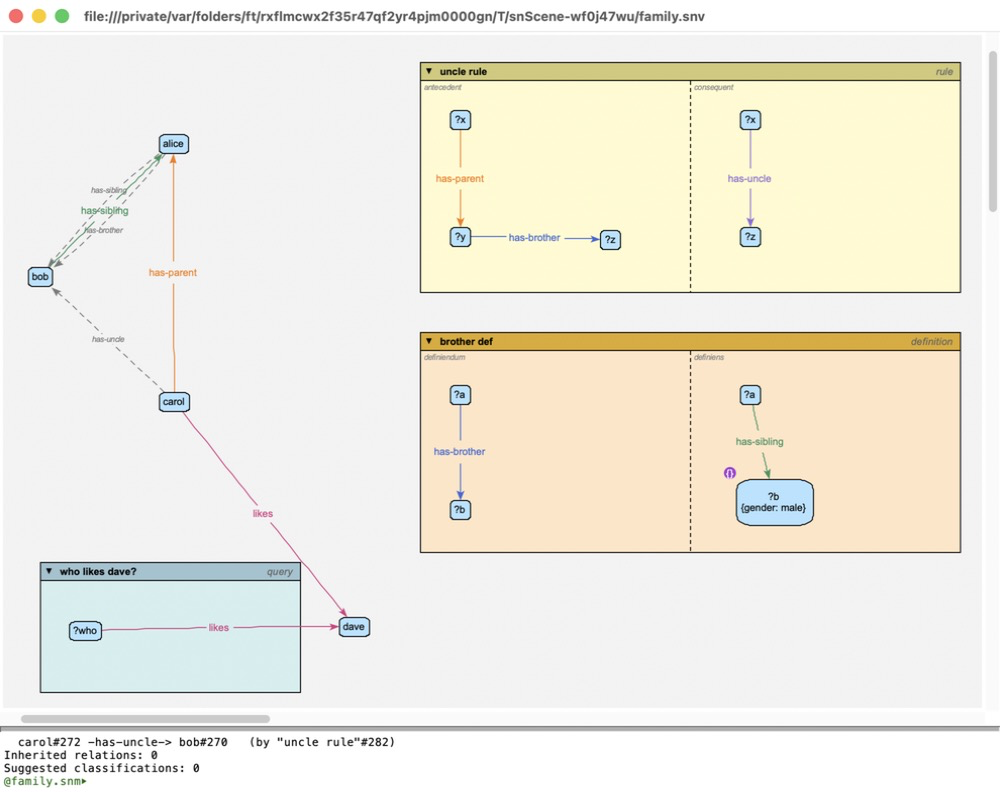
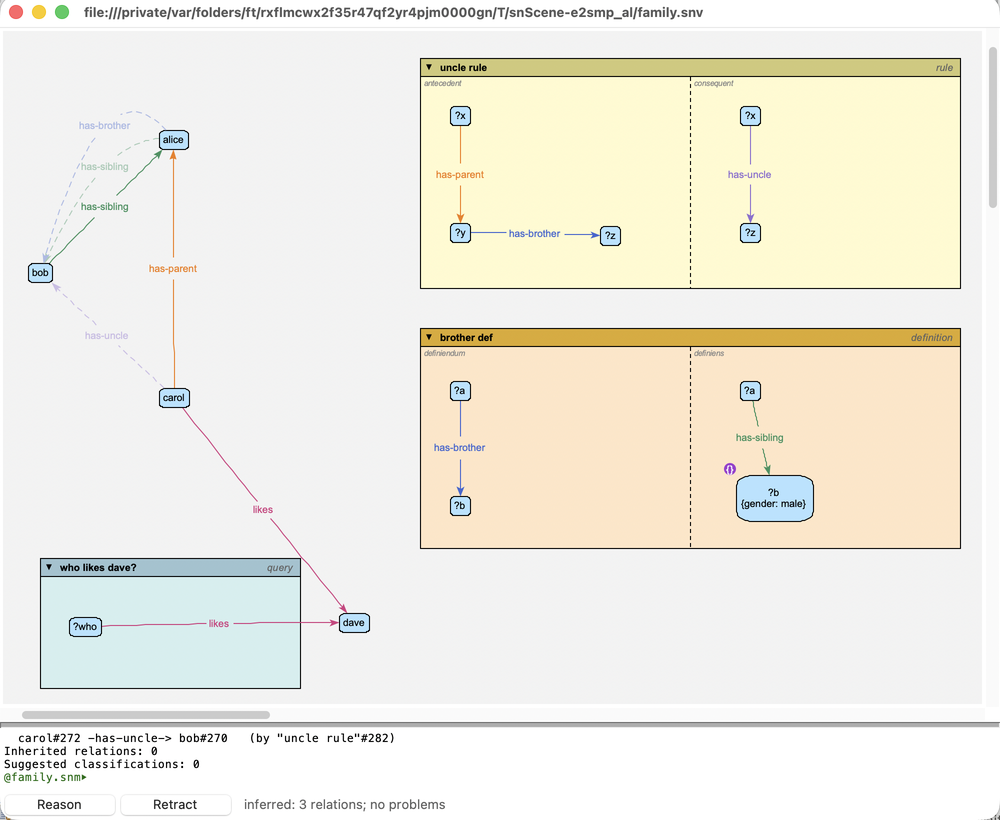
Doc screenshots retaken; showScene.py --capture takes them
- family-reasoned.png, query-answer.png, animation-class-diagram.png
  retaken: inferred relations faded and dashed, the reasoning toolbar, and
  the animation toolbar's "place labels".
- showScene.py --capture <folder>: takes a scene's screenshots itself
  (screencapture, needing screen recording permission) and quits; the
  scene's window grows by the reasoning toolbar's height, so the canvas is
  as big as it was.
- Getting started and the developer's view notes: the reasoning toolbar
  and inferred objects, not dashed grey lines.

diff --git a/tools/docExamples/showScene.py b/tools/docExamples/showScene.py
@@ -22,21 +22,97 @@ screenshots taken of them:
                toolbar: animation-class-diagram.png (the toolbar and the
                diagram)
 
-Screenshots have to be taken by hand (eg: with Shift-Cmd-4, then Space, to
-take a window): macOS doesn't let a script capture the screen without screen
-recording permission.
+With --capture, it takes the scene's screenshots itself (see *CAPTURES*),
+into the given folder (eg: sphinx/source/images/user), and quits:
+
+  python3.14 tools/docExamples/showScene.py overview --capture sphinx/source/images/user
+
+That needs screen recording permission for whatever runs it (eg: the
+terminal): without it, macOS gives a blank picture, and nothing is saved.
+Otherwise, take them by hand (eg: with Shift-Cmd-4, then Space, to take a
+window). The other screenshots (rule-window.png, definition-window.png,
+collapsed-window.png, attribute-editor.png) are still taken by hand.
 
 .. codeauthor:: Rob Kremer <robkremer@me.com>
 '''
-import os, sys, tempfile
+import os, sys, tempfile, subprocess
 
 ROOT = os.path.abspath(os.path.join(os.path.dirname(__file__), "..", ".."))
 SCENES = ("overview", "query", "collapsed", "attributes", "animals")
+TITLE_BAR = 28
+"The height (points) of a macOS window's title bar, above the window's content."
+CAPTURES:dict[str, list[tuple[str, str, float]]] = {
+  "overview": [("family-reasoned.png", "window", 0.5)],
+  "query":    [("query-answer.png", "left", 1.0)],
+  "animals":  [("animation-class-diagram.png", "diagram", 1.0)],
+}
+"""
+Each scene's screenshots, for --capture: (file name, what's in it, scale --
+of the screen's pixels: 0.5 halves a Retina screen's). What's in it:
+"window" is the whole window, title bar and all; "left" its left part, from
+the canvas to the terminal pane (without the reasoning toolbar below); and
+"diagram" the animation toolbar and the canvas below it.
+"""
+CAPTURE_DELAY = 4000
+"How long (ms) to let a scene settle (eg: reasoning, answering) before it's captured."
+
+def region(win, what:str) -> tuple[int, int, int, int]:
+  '''
+  :param win: The scene's window.
+  :param what: What's in the screenshot: see *CAPTURES*.
+  :returns: Where it is on the screen (points): (x, y, width, height).
+  '''
+  x, y, w = win.winfo_rootx(), win.winfo_rooty(), win.winfo_width()
+  paned = win.appPanedWidget
+  canvas = paned.canvasFrame
+  terminal = win.view.terminalFrame
+  if what == "window":
+    return x, y - TITLE_BAR, w, win.winfo_height() + TITLE_BAR
+  if what == "left":
+    bottom = terminal.winfo_rooty() + terminal.winfo_height()
+    return x, canvas.winfo_rooty(), 372, bottom - canvas.winfo_rooty()
+  if what == "diagram": # (down to a little below what's drawn)
+    bar = win.view.__dict__["_animationToolbar"]
+    c = win.view.canvas
+    drawn = c.bbox("all")
+    bottom = canvas.winfo_rooty() + canvas.winfo_height()
+    if drawn:
+      bottom = min(bottom, c.winfo_rooty() + int(drawn[3] - c.canvasy(0)) + 30)
+    return x, bar.winfo_rooty(), w, bottom - bar.winfo_rooty()
+  raise ValueError(what)
+
+def capture(win, scene:str, folder:str) -> None:
+  '''
+  Take *scene*'s screenshots (see *CAPTURES*) of *win*, into *folder*.
+
+  :param win: The scene's window.
+  :param scene: Its name.
+  :param folder: Where to put them.
+  '''
+  from PIL import Image
+  win.lift(); win.update()
+  for name, what, scale in CAPTURES.get(scene, []):
+    x, y, w, h = region(win, what)
+    path = os.path.join(folder, name)
+    tmp = path + ".tmp.png"
+    subprocess.run(["screencapture", "-x", "-t", "png", f"-R{x},{y},{w},{h}", tmp], check=True)
+    im = Image.open(tmp).convert("RGB")
+    if im.getextrema() == ((0, 0), (0, 0), (0, 0)): # (no screen recording permission)
+      os.remove(tmp)
+      sys.exit(f"{name}: the screen capture is blank -- screen recording permission is needed")
+    if scale != 1.0:
+      im = im.resize((round(im.width * scale), round(im.height * scale)), Image.LANCZOS)
+    im.save(path)
+    os.remove(tmp)
+    print(f"captured {path} ({im.width}x{im.height})", flush=True)
 
 def main() -> None:
   scene = sys.argv[1] if len(sys.argv) > 1 else ""
   if scene not in SCENES:
-    sys.exit(f"usage: showScene.py <scene>: one of {', '.join(SCENES)}")
+    sys.exit(f"usage: showScene.py <scene> [--capture <folder>]: <scene> is one of {', '.join(SCENES)}")
+  into = os.path.abspath(sys.argv[sys.argv.index("--capture") + 1]) if "--capture" in sys.argv else None
+  if into is not None and not CAPTURES.get(scene):
+    sys.exit(f"{scene}: its screenshots are taken by hand")
   folder = os.path.realpath(tempfile.mkdtemp(prefix="snScene-")) # (a temporary user: see makeExamples.py)
   os.environ["HOME"] = folder
   os.environ["SN_NO_SAVE_PROMPT"] = "1"
@@ -58,6 +134,14 @@ def main() -> None:
   def setUp() -> None:
     win = app.openWindow(os.path.join(folder, name))
     v = win.view
+    def roomForToolbar() -> None: # (the window grows by the reasoning toolbar's height: the canvas is as big as it was)
+      bar = v.__dict__.get("_reasoningToolbar")
+      if bar is None or not bar.winfo_ismapped(): # (not yet: the window's still being made)
+        app.after(100, roomForToolbar)
+        return
+      win.update_idletasks()
+      win.geometry(f"{win.winfo_width()}x{win.winfo_height() + bar.winfo_reqheight()}")
+    app.after(100, roomForToolbar)
     if scene in ("overview", "query"): # (once the window's terminal is set up, so the report goes there)
       app.after(1000, v.reason)
     if scene == "query":
@@ -66,6 +150,12 @@ def main() -> None:
       v.context.collapse(vo(v, "uncle rule"), True)
     elif scene == "attributes":
       app.after(500, lambda: vo(v, "?b", 1).onEditAttributes()) # (the definiens' ?b: its constraints, and its inherited look)
+    if into is not None:
+      def shoot() -> None:
+        capture(win, scene, into)
+        os._exit(0)
+      app.after(CAPTURE_DELAY, shoot)
+      return
     print(f"showing {scene}: close the window (or stop this) when done", flush=True)
 
   app.after(500, setUp)

diff --git a/sphinx/source/user/gettingStarted.rst b/sphinx/source/user/gettingStarted.rst
@@ -81,9 +81,9 @@ Each window shows one view of one model. It has two parts:
   the reasoner's report) and takes typed commands (see :doc:`terminal`).
 
 .. figure:: ../images/user/family-reasoned.png
-   :alt: A window on a small family model, after reasoning: the people on the left (with the reasoner's conclusions as dashed grey lines), a rule, a definition and a query in their windows on the right, and the end of the reasoner's report in the terminal pane
+   :alt: A window on a small family model, after reasoning: the people on the left (with the reasoner's conclusions faded, with dashed lines), a rule, a definition and a query in their windows on the right, the end of the reasoner's report in the terminal pane, and the reasoning toolbar below it
 
-   A window on a small family model, after reasoning: the people on the left (with the reasoner's conclusions as dashed grey lines), a rule, a definition and a query in their windows on the right, and the end of the reasoner's report in the terminal pane.
+   A window on a small family model, after reasoning: the people on the left (with the reasoner's conclusions faded, with dashed lines), a rule, a definition and a query in their windows on the right, the end of the reasoner's report in the terminal pane, and the reasoning toolbar below it.
 
 Most things are done from the right-click menus: on an object for things to
 do with it, and on the background for everything else. The background menu
@@ -116,9 +116,10 @@ A first network
 5. Make a relation type: background menu, **model | new subtype of Relation**,
    and name it ``likes``. Then right-click *rex*, **make relation to... |
    likes**, and click on something rex likes.
-6. Right-click the background: **reasoning | reason**. The report appears in
-   the terminal pane, and what the reasoner inferred is drawn on the canvas as
-   dashed grey lines.
+6. Click **Reason** on the reasoning toolbar at the bottom of the window (or
+   right-click the background: **reasoning | reason**). The report appears in
+   the terminal pane, and what the reasoner inferred is shown on the canvas,
+   faded, with dashed lines.
 
 Undo and redo are **Cmd-Z** and **Shift-Cmd-Z**; nearly everything can be
 undone, including moves, layouts and edits. Each window has its own undo

diff --git a/sphinx/source/developer/view.rst b/sphinx/source/developer/view.rst
@@ -131,10 +131,13 @@ Reasoning results
 -----------------
 
 When the model announces "reasoned", the view refreshes its objects' status
-reports (the **E** markers) and draws the inferred and inherited relations
-(``drawInferences``) as dashed or dotted grey arrows. These are bare canvas
-items, not VObjects: they're not part of the view, aren't saved, take no
-mouse clicks, and follow their ends as they move.
+reports (the **E** markers) and shows the model's inferred objects
+(``_showInferred``: see :doc:`reasoner`): view objects like any others, drawn
+in their own look but faded (``VObject.isInferred()``; the vis cache fades
+their colours), relations with dashed lines (dotted if inherited). They take
+part in layouts, but aren't saved with the view, and don't make it dirty. The
+reasoning toolbar (``reasoningToolbar.py``) at the bottom of the window
+reasons and retracts, and says what the last reason found.
 
 Interaction
 -----------
